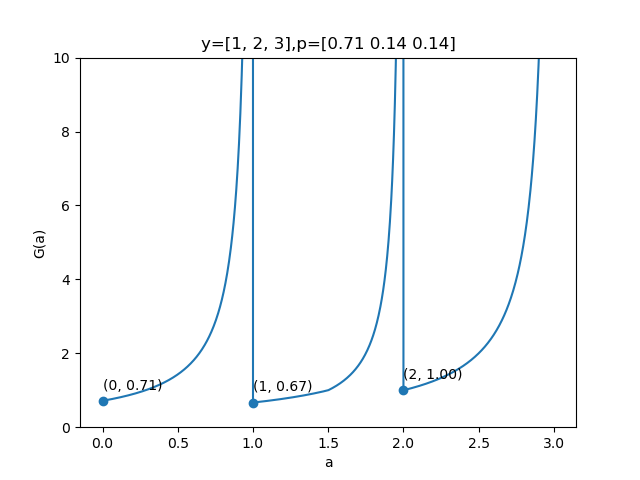
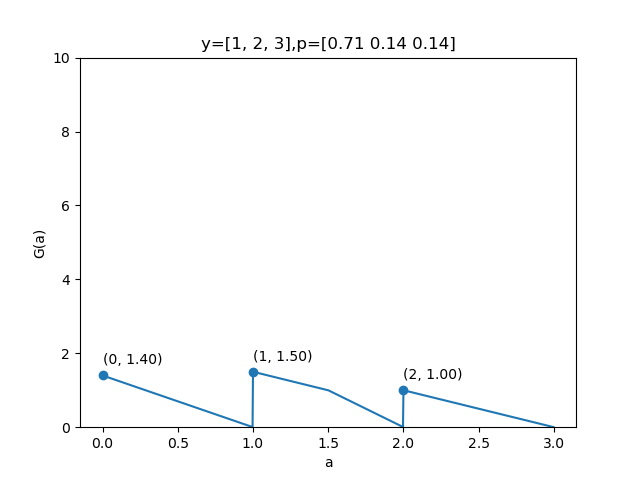
C++ discrete gittins tested and working

diff --git a/generate_graphs/discrete_gittins.py b/generate_graphs/discrete_gittins.py
@@ -2,7 +2,7 @@ import matplotlib.pyplot as plt
 import numpy as np
 
 y = [1,2,3]
-p = [5,1,1]
+p = [.72,.14,.14]
 p = np.array(p).astype(float)
 p /= sum(p)
 samples = 1000
@@ -10,11 +10,13 @@ n = len(y)
 
 def gittins_expr(istar, j, a, Pprime):
     num = (1/Pprime)*sum([p[i] for i in range(istar,istar+j+1)])
+    print(f"num={num}")
     denom = sum([p[i]*y[i] for i in range(istar,istar+j)])
     denom += y[istar+j]*sum([p[i] for i in range(istar+j,n)])
     denom /= Pprime
     denom -= a
-    return num/denom
+    print(f"denom={denom}")
+    return denom/num
 
 def G(a):
     possible_gittins = []
@@ -25,21 +27,24 @@ def G(a):
         yistar = y[istar]
     Pprime = sum([p[i] for i in range(istar,n)])
     for j in range(n-istar):
+        print(f"j={j}")
         possible_gittins.append(gittins_expr(istar, j, a, Pprime))
-    return max(possible_gittins)
+    return min(possible_gittins)
 
-A = np.linspace(0,max(y),samples)[:-1]
-Y = np.vectorize(G)(A)
+print(G(2.8))
 
-plt.plot(A,Y)
-plt.ylim(0,10)
-plt.title(f"y={y},p={p.round(2)}")
-plt.xlabel("a")
-plt.ylabel("G(a)")
-pts = y[:-1]
-pts.append(0)
-yGittins = np.vectorize(G)(pts)
-plt.scatter(pts,yGittins)
-for i in range(len(pts)):
-    plt.text(pts[i], yGittins[i]+0.3, f'({pts[i]}, {yGittins[i]:.2f})')
-plt.savefig('discrete_gittins.png')
+# A = np.linspace(0,max(y),samples)[:-1]
+# Y = np.vectorize(G)(A)
+
+# plt.plot(A,Y)
+# plt.ylim(0,10)
+# plt.title(f"y={y},p={p.round(2)}")
+# plt.xlabel("a")
+# plt.ylabel("G(a)")
+# pts = y[:-1]
+# pts.append(0)
+# yGittins = np.vectorize(G)(pts)
+# plt.scatter(pts,yGittins)
+# for i in range(len(pts)):
+#     plt.text(pts[i], yGittins[i]+0.3, f'({pts[i]}, {yGittins[i]:.2f})')
+# plt.savefig('discrete_gittins.png')

diff --git a/soap/policy.cpp b/soap/policy.cpp
@@ -54,11 +54,11 @@ real DiscreteGittinsPolicy::getIndex(Job *job) {
         Pprime += this->probs[i];
     }
 
-    real Ga = 0;
+    real Ga = infinity;
     for (unsigned int j = 0; j < this->size - istar; j++) {
         real num = 0;
-// debug_print("DGP gI canary j=%d\n", j);
-        for (unsigned int i = istar; i < istar + j; i++) {
+        // debug_print("DGP gI canary j=%d\n", j);
+        for (unsigned int i = istar; i <= istar + j; i++) {
             num += this->probs[i];
         }
         num /= Pprime;
@@ -68,23 +68,24 @@ real DiscreteGittinsPolicy::getIndex(Job *job) {
             denom += this->probs[i];
         }
         denom *= this->vals[istar + j];
-// debug_print("DGP gI canary istar+j-1=%d\n", istar+j-1);
-        if (istar + j > 0) {
-            for (unsigned int i = 0; i < istar + j - 1; i++) {
-                denom += this->probs[i]*this->vals[i];
-            }
+        // debug_print("DGP gI canary istar+j-1=%d\n", istar+j-1);
+        // if (istar + j > 0) {
+        for (unsigned int i = istar; i < istar + j; i++) {
+            denom += this->probs[i]*this->vals[i];
         }
+        // }
         denom /= Pprime;
         denom -= a;
 
-        real frac = num/denom;
-        if (frac > Ga) {
+        real frac = denom/num;
+        // debug_print("j=%d: frac=%Lf, num=%Lf, denom=%Lf\n", j, frac, num, denom);
+        if (frac < Ga) {
             Ga = frac;
         }
     }
     
     // debug_print("DGP gI end\n");
-    debug_print("a=%Lf->%Lf\n", a, Ga);
+    // debug_print("a=%Lf->%Lf\n", a, Ga);
     return Ga;
 }
 

diff --git a/soap/main.cpp b/soap/main.cpp
@@ -47,7 +47,7 @@ int main(int argc, char **argv) {
 
 
     // server characteristics
-    unsigned int k = 5;
+    // unsigned int k = 5;
 
     // input characteristics
     ExponentialDistribution in(1/1.43); // mean is 1/lambda
@@ -57,16 +57,20 @@ int main(int argc, char **argv) {
     // ExponentialDistribution serv(1.01);
     SingleIndepStream stream(&in, &serv);
 
-    DiscreteGittinsPolicy policy(vals, probs);
+    Policy *policy = new DiscreteGittinsPolicy(vals, probs);
     // FCFSPolicy policy;
 
-    System system(&stream, &policy, k);
+    // System system(&stream, &policy, k);
 
-    printf("Experiment start\n");
-    system.runFor(0, 100000);
-    printf("Experiment end\n");
+    Job j = stream.popJob(0);
+    j.serve(2.8);
+    printf("0->%Lf\n", policy->getIndex(&j));
 
-    system.toCSV("results/out.csv");
+    // printf("Experiment start\n");
+    // system.runFor(0, 100000);
+    // printf("Experiment end\n");
+
+    // system.toCSV("results/out.csv");
 
     return 0;
 }
